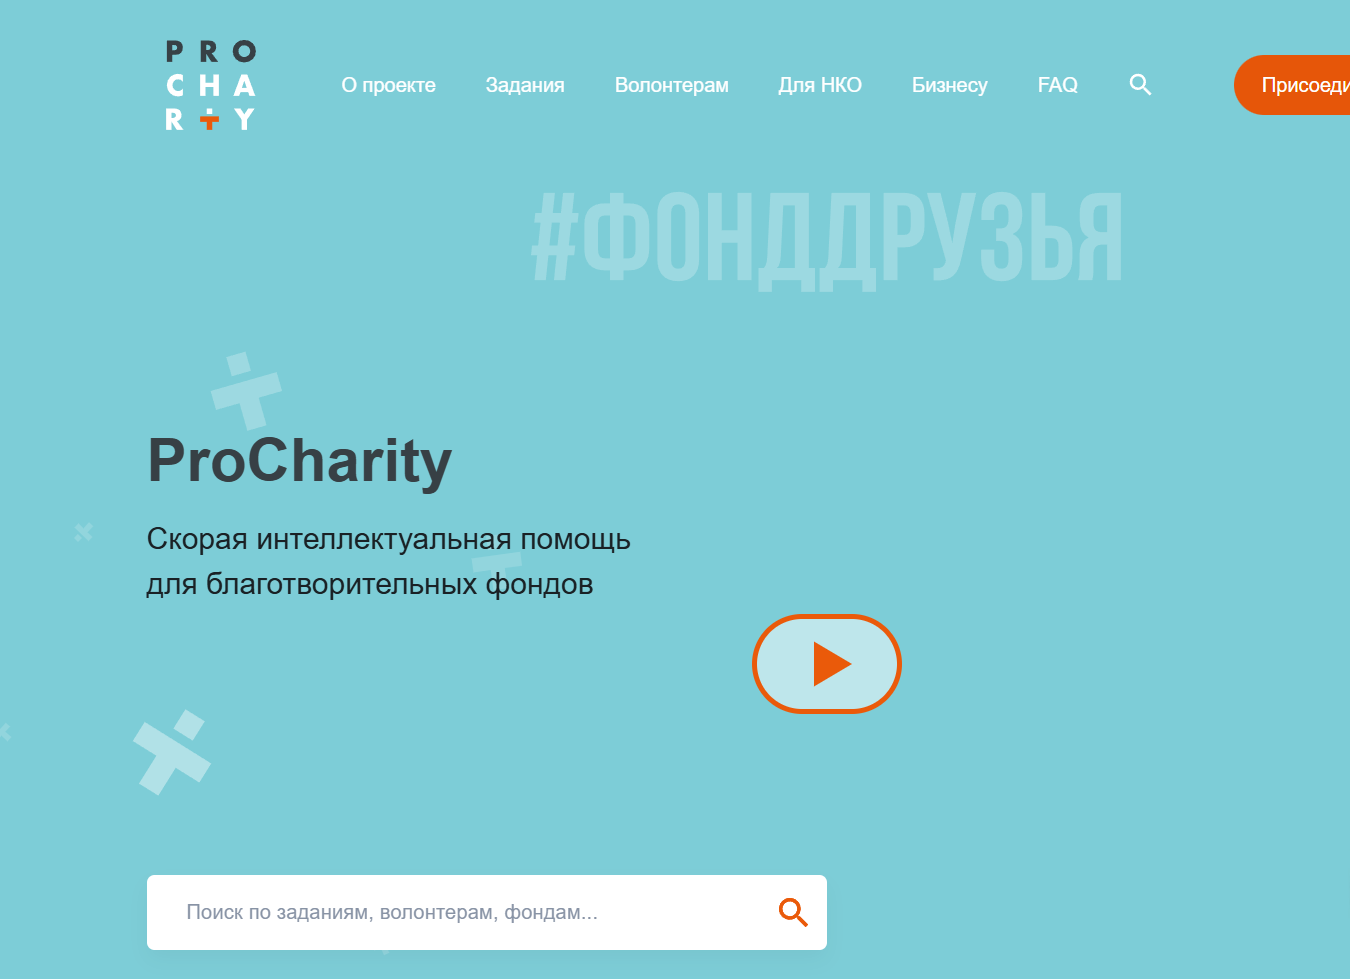
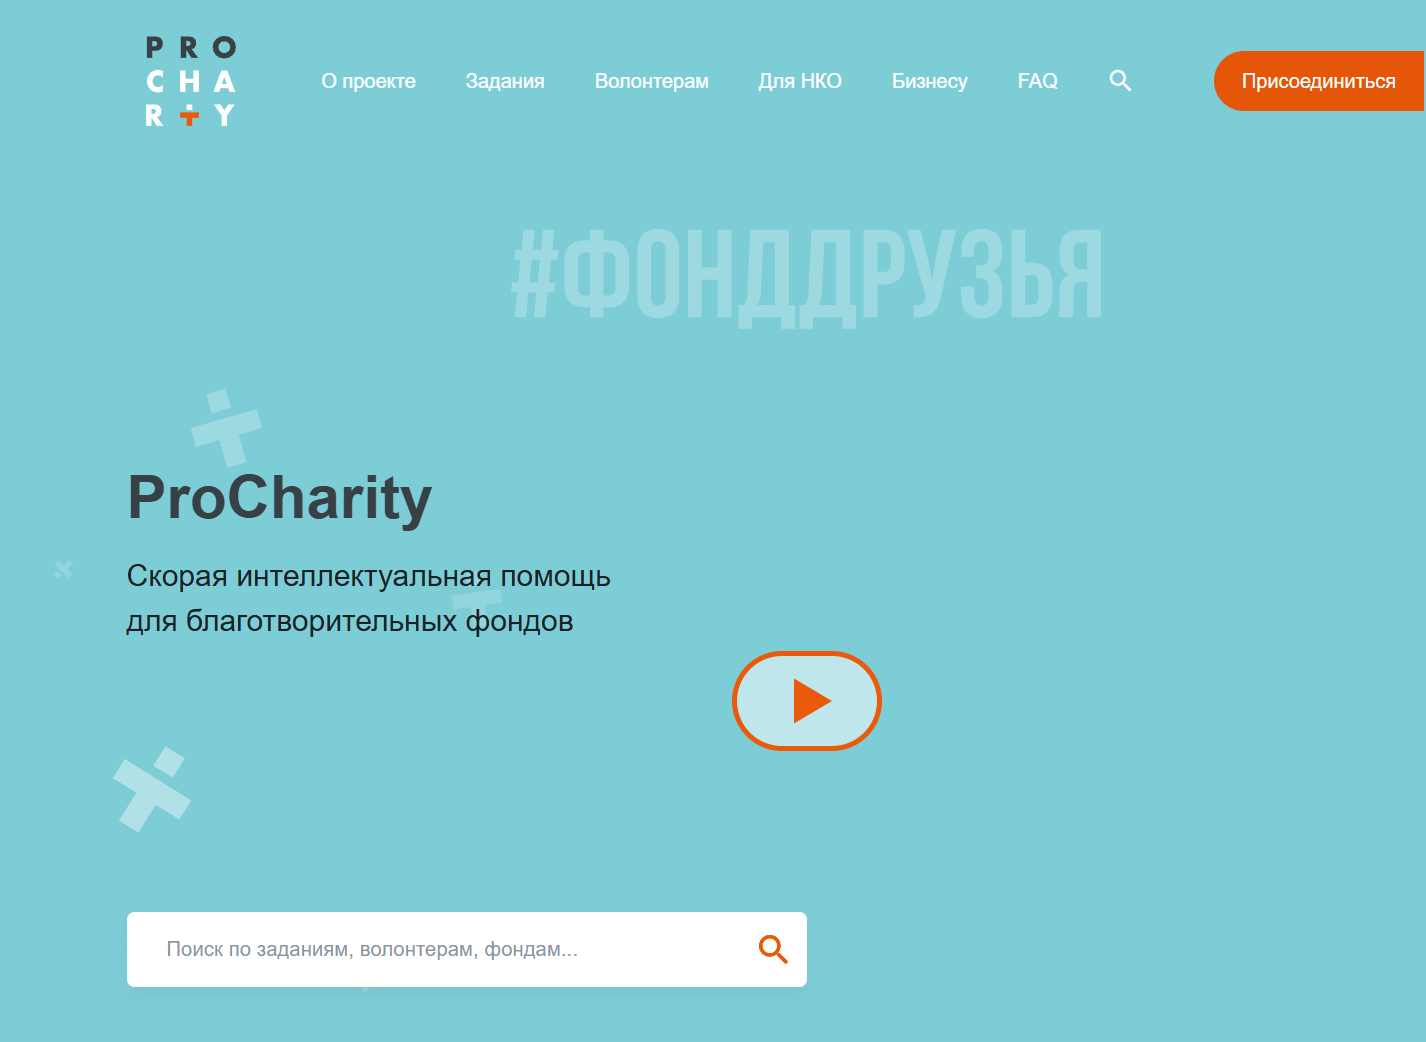
fix: fix headers

diff --git a/src/components/Content/index.const.ts b/src/components/Content/index.const.ts
@@ -76,72 +76,92 @@ export const myWorkData = {
 export const workCardsData: WorkCardData[] = [
   {
     title: 'Ореол Жизни',
-    description: 'A personal portfolio showcasing my web development projects with a focus on UX.',
     stack: ['React', 'TypeScript', 'Next.js', 'Redux', 'React Hook Form', 'FSD', 'GitHub Actions', 'React Testing Library','SCSS'],
     images: [
       {
         src: './images/halolife5.png',
-        description: 'Автономная некоммерческая организация по оказанию всесторонней помощи пациентам с онкологическим диагнозом и их близким - Ореол Жизни'
+        title_description: 'описание проекта',
+        description: ' Ореол Жизни - это автономная некоммерческая организация по оказанию всесторонней помощи пациентам с онкологическим диагнозом и их близким. Сайт предоставляет информацию о том, куда пациент может обратиться за поддержкой.'
       },
       {
-        src: './images/halolife3.png', 
-        description: 'Виджет отображения постов. Telegram Интеграция с Telegram API для встраивания контента. Компонент показа телеграм-ленты в реальном времени'
+        src: './images/halolife6.png', 
+        title_description: 'мои достижения в проекте',
+        description: 'Создал библиотеку из 20+ компонентов для форм, ускорив разработку на 15% и обеспечив единообразие UI.'
       },
       {
-        src: './images/img10.png',
-        description: 'Адаптивная версия для мобильных устройств'
+        src: './images/halolife7.png',
+        title_description: 'мои достижения в проекте',
+        description: 'Внедрил многоэтапную регистрацию, что повысило финальную конверсию на 18%.'
+      },
+      {
+        src: './images/halolife8.png',
+        title_description: 'мои достижения в проекте',
+        description: 'Инкапсулировал логику в кастомные хуки (useForm, useValidation), сократив код компонентов на ~40% для улучшения тестируемости.'
+      },
+      {
+        src: './images/halolife9.png',
+        title_description: 'мои достижения в проекте',
+        description: 'Внедрил строгую типизацию для API-слоя (TypeScript Generics), что полностью исключило ошибки, связанные с несоответствием ожидаемых и получаемых с бэкенда данных.'
       }
     ],  },
   {
     title: 'ProCharity',
-    description: '— поиск интеллектуальных волонтеров для благотворительных организаций.',
     stack: ['React', 'TypeScript', 'Redux', 'SCSS','Storybook','Docker','MongoDB', 'GitHub Actions'],
     images: [
       {
-        src: './images/pro5.png',
+        src: './images/pro1.png',
+        title_description: 'описание проекта',
         description: 'ProCharity — это возможность для профессионалов своего дела помочь некоммерческим организациям в вопросах, которые требуют специальных знаний и опыта.'
       },
       {
         src: './images/pro2.png',
-        description: 'Гибкая система управления доступом. Разделение функционала по типам пользователей. Безопасная авторизация с персональным интерфейсом.'
+        title_description: 'мои достижения в проекте',
+        description: 'Реализовал гибкую систему управления доступом: разделил функционал по типам пользователей и создал UI для флоу авторизации с персональным интерфейсом.'
       },
       {
         src: './images/pro3.png',
-        description: 'Динамическая форма с полями разных типов. Интеграция загрузки фото и документов. Система валидации и предобработки файлов.'
+        title_description: 'мои достижения в проекте',
+        description: 'Разработал компоненти динамической формы с полями разных типов. Провел интеграцию загрузки фото и документов. Внедрил систему валидации и предобработки файлов.'
       },
       {
         src: './images/pro4.png',
-        description: 'Система компонентов для визуального контента. Адаптивные баннеры с градиентными overlay. Карточки с hover-эффектами и микроанимациями.'
+        title_description: 'мои достижения в проекте',
+        description: 'Работал над системой компонентов для визуального контента: адаптивные баннеры с градиентными overlay, карточки с hover-эффектами и микроанимациями.'
       },
       {
         src: './images/pro6.png',
-        description: 'Интерактивные компоненты с микровзаимодействиями. Сложные состояния: loading, disabled, success. Плавные переходы между состояниями интерфейса.'
+        title_description: 'мои достижения в проекте',
+        description: 'Создал интерактивные компоненты с микровзаимодействиями. Кастомный Button со сложными состояниями: loading, disabled, success. Плавные переходы между состояниями интерфейса.'
       }
     ],  },
   {
     title: 'TechGadget',
-    description: 'Интернет-магазин электроники.',
     stack: ['React', 'TypeScript', 'MUI', 'Styled Components', 'ESLint', 'Prettier'],
     images: [
       {
         src: './images/tg1.png',
-        description: 'Продуктовые карточки с детальной информацией и галереей. Интеграция системы корзины и быстрого заказа. Визуальная витрина с grid/layout представлением.'
+        title_description: 'описание проекта',
+        description: 'Современное веб-приложение для электронной коммерции, предоставляющее полный набор функций как для конечных пользователей, так и для администраторов системы.'
       },
       {
         src: './images/tg2.png',
-        description: 'Интерактивная корзина товаров с полным управлением. Быстрый переход к товарам и оформлению заказа. Динамическое обновление суммы и количества позиций.'
+        title_description: 'мои достижения в проекте',
+        description: 'Реализовал интерактивную корзину товаров с полным управлением. Быстрый переход к товарам и оформлению заказа. Динамическое обновление суммы и количества позиций.'
       },
       {
         src: './images/tg3.png',
-        description: 'Комплексная карточка товара с полным набором взаимодействий. Интерактивный слайдер фотографий и детальная информация. Система рейтингов, отзывов и управления предпочтениями.'
+        title_description: 'мои достижения в проекте',
+        description: 'Работал над карточкой товара с полным набором взаимодействий. Интерактивный слайдер фотографий и детальная информация. Система рейтингов, отзывов и управления предпочтениями.'
       },
       {
         src: './images/tg4.png',
-        description: 'Чистые формы входа и регистрации без лишних элементов. Быстрое восстановление доступа в несколько кликов. Упрощенный процесс верификации пользователей.'
+        title_description: 'мои достижения в проекте',
+        description: 'Создал чистые формы входа и регистрации без лишних элементов. Быстрое восстановление доступа в несколько кликов. Упрощенный процесс верификации пользователей.'
       },
       {
         src: './images/tg5.png',
-        description: 'Система управления персональными предпочтениями. Добавление товаров в избранное и создание коллекций. Публикация и модерация пользовательских отзывов.'
+        title_description: 'мои достижения в проекте',
+        description: 'Создал систему управления персональными предпочтениями. Добавление товаров в избранное и создание коллекций. Публикация и модерация пользовательских отзывов.'
       }
     ],  },
 ];

diff --git a/src/components/Modal/index.tsx b/src/components/Modal/index.tsx
@@ -1,10 +1,10 @@
 import { createPortal } from "react-dom";
 import { WorkCardData } from "../Content/types";
-import styles from './index.module.scss';
+import styles from "./index.module.scss";
 import { useAnimation } from "../../hooks/useAnimation";
 import { useState, useEffect } from "react";
 import Slider from "./Slider";
-import { FaTimes } from 'react-icons/fa';
+import { FaTimes } from "react-icons/fa";
 
 interface WorkModalProps {
   work: WorkCardData | null;
@@ -15,7 +15,7 @@ interface WorkModalProps {
 const WorkModal = ({ work, isOpen, onClose }: WorkModalProps) => {
   const isVisible = useAnimation(isOpen);
   const [isClosing, setIsClosing] = useState(false);
-  const [currentSlide, setCurrentSlide] = useState(0); 
+  const [currentSlide, setCurrentSlide] = useState(0);
 
   useEffect(() => {
     if (isOpen) {
@@ -34,30 +34,38 @@ const WorkModal = ({ work, isOpen, onClose }: WorkModalProps) => {
   }, [isOpen, isVisible]);
 
   if (!isVisible || !work) return null;
-  
+
   return createPortal(
-    <div 
-      className={`${styles.modalOverlay} ${isClosing ? styles.closing : ''}`} 
+    <div
+      className={`${styles.modalOverlay} ${isClosing ? styles.closing : ""}`}
       onClick={onClose}
     >
-      <div 
-        className={`${styles.modalContent} ${isClosing ? styles.closing : ''}`} 
+      <div
+        className={`${styles.modalContent} ${isClosing ? styles.closing : ""}`}
         onClick={(e) => e.stopPropagation()}
       >
-        <button className={styles.closeButton} onClick={onClose}><FaTimes /></button>
-        
+        <button className={styles.closeButton} onClick={onClose}>
+          <FaTimes />
+        </button>
+
         <div className={styles.modalLayout}>
           <div className={styles.sliderSection}>
-          <Slider 
+            <Slider
               images={work.images}
               currentSlide={currentSlide}
               onSlideChange={setCurrentSlide}
               onClose={onClose}
             />
-          </div>   
+          </div>
           <div className={styles.contentSection}>
             <div className={styles.modalHeader}>
-              <h3 className={styles.modalTitle}>{work.title}</h3>
+              <div className={styles.headerContent}>
+                <div className={styles.titleBlock}>{work.title}</div>
+                <div className={styles.divider}></div>
+                <div className={styles.descriptionBlock}>
+                  {work.images[currentSlide]?.title_description}
+                </div>
+              </div>
             </div>
             <div className={styles.modalBody}>
               <div className={styles.projectInfo}>

diff --git a/src/components/Modal/index.module.scss b/src/components/Modal/index.module.scss
@@ -77,12 +77,45 @@
   border-bottom: 1px solid #e5e5e5;
 }
 
+.headerContent {
+  display: flex;
+  align-items: center;
+  gap: 20px;
+  height: 100%;
+}
+
+
+.titleBlock {
+  color: white;
+  font-size: 24px;
+  letter-spacing: 1px;
+  font-weight: 600;
+  flex-shrink: 0;
+}
+
+.divider {
+  width: 4px;
+  height: 40px;
+  background-color: #007bff;
+  border-radius: 2px;
+  flex-shrink: 0;
+}
+
+.descriptionBlock {
+  color: #ccc;
+  font-size: 15px;
+  letter-spacing: 1px;
+  line-height: 1.4;
+  flex: 1;
+}
+
 .modalTitle {
   margin: 0;
   color: white;
   font-size: 24px;
   letter-spacing: 1px;
   font-weight: 600;
+  margin-bottom: 8px;
 }
 
 .modalStack {
@@ -124,7 +157,6 @@
   box-shadow: 0 2px 8px rgba(0, 0, 0, 0.1);
 }
 
-// Анимации
 @keyframes fadeIn {
   from {
     opacity: 0;
@@ -145,7 +177,6 @@
   }
 }
 
-// Анимация закрытия
 .modalOverlay.closing {
   animation: fadeOut 0.2s ease-in forwards;
 }
@@ -181,8 +212,8 @@
 }
 
 .sliderSection {
-  flex: 0 0 65%; // 60% высоты
-  min-height: 0; // важно для flexbox
+  flex: 0 0 65%;
+  min-height: 0;
   background: #f8f9fa;
   border-radius: 8px 8px 0 0;
   display: flex;
@@ -234,7 +265,7 @@
 }
 
 .contentSection {
-  flex: 0 0 35%; // 40% высоты
+  flex: 0 0 35%;
   min-height: 0;
   overflow-y: auto;
   display: flex;
@@ -256,7 +287,6 @@
   }
 }
 
-// Адаптивность для мобильных устройств
 @media (max-height: 600px) {
   .sliderSection {
     flex: 0 0 50%;

diff --git a/src/components/Content/MyWork/index.module.scss b/src/components/Content/MyWork/index.module.scss
@@ -50,23 +50,24 @@
   font-size: 75px;
   font-weight: bold;
   color: white;
+  text-shadow: 2px 2px 4px rgba(115, 62, 248, 0.7);
+  opacity: 0.9;
   align-self: center;
- // writing-mode: horizontal-tb; // По умолчанию горизонтальный текст
 
   @media (max-width: 1079px) {
-    writing-mode: vertical-lr; // Вертикальный текст слева направо
+    writing-mode: vertical-lr;
     text-orientation: mixed;
-    transform: rotate(180deg); // Переворачиваем чтобы текст шел снизу вверх
+    transform: rotate(180deg);
     font-size: 30px;
     line-height: 1;
     letter-spacing: 3px;
     margin: 0;
-    align-self: flex-start; // Остается слева
+    align-self: flex-start;
   }
 
   @media (max-width: 1024px) {
-    align-self: center; // На очень маленьких центрируем
-    transform: rotate(180deg) translateX(0); // Сохраняем переворот
+    align-self: center;
+    transform: rotate(180deg) translateX(0);
   }
 
   @media (max-width: 579px) {
@@ -133,7 +134,7 @@
   align-items: flex-start;
 
   @media (max-width: 1024px) {
-    order: -1; // Видео наверх в мобильной версии
+    order: -1;
   }
 }
 

diff --git a/src/components/Content/Contacts/index.module.scss b/src/components/Content/Contacts/index.module.scss
@@ -2,7 +2,7 @@
   display: flex;
   flex-direction: column;
   justify-content: space-evenly;
-  padding: 20px 20px 0;
+  padding: 20px 0 0;
   width: 100%;
 }
 
@@ -11,7 +11,7 @@
   margin: 0 auto;
   padding: 0 20px;
   display: flex;
-  justify-content: space-between;
+  justify-content: space-evenly;
   align-items: flex-start;
   gap: 40px;
 
@@ -56,6 +56,8 @@
   font-size: 75px;
   font-weight: bold;
   color: white;
+  text-shadow: 2px 2px 4px rgba(115, 62, 248, 0.7);
+  opacity: 0.9;
   text-align: left;
 
   @media (max-width: 1079px) {
@@ -128,11 +130,13 @@
 }
 
 .cardsContainer {
+  max-width: 1400px;
+  width: 100%;
   border-top: 1px solid #e9ecef;
   display: flex;
   justify-content: space-evenly;
+  align-self: center;
   padding: 140px 0 60px;
-  max-width: 100%;
 
   @media (max-width: 768px) {
     flex-direction: column;

diff --git a/src/components/Content/types.ts b/src/components/Content/types.ts
@@ -8,12 +8,13 @@ export interface TechStackItem {
 
 export interface WorkImage {
   src: string;
+  title_description?: string;
   description: string;
 }
 
 export interface WorkCardData {
   title: string;
-  description: string;
+  description?: string;
   stack: string[];
   images: WorkImage[];
 }

diff --git a/src/components/Content/HeroSection/index.module.scss b/src/components/Content/HeroSection/index.module.scss
@@ -14,7 +14,6 @@
   margin-bottom: var(--hero-margin-bottom);
 }
 
-// Десктопная версия (по умолчанию)
 .desktopLayout {
   display: flex;
   flex-direction: column;

diff --git a/src/components/Content/Footer/index.module.scss b/src/components/Content/Footer/index.module.scss
@@ -5,7 +5,7 @@
 .container {
   width: 100%;
   max-width: 1400px;
-  height: 230px;
+  height: 180px;
   border-top: 1px solid #e9ecef;
   margin: 0 auto;
   padding: 20px 20px;
